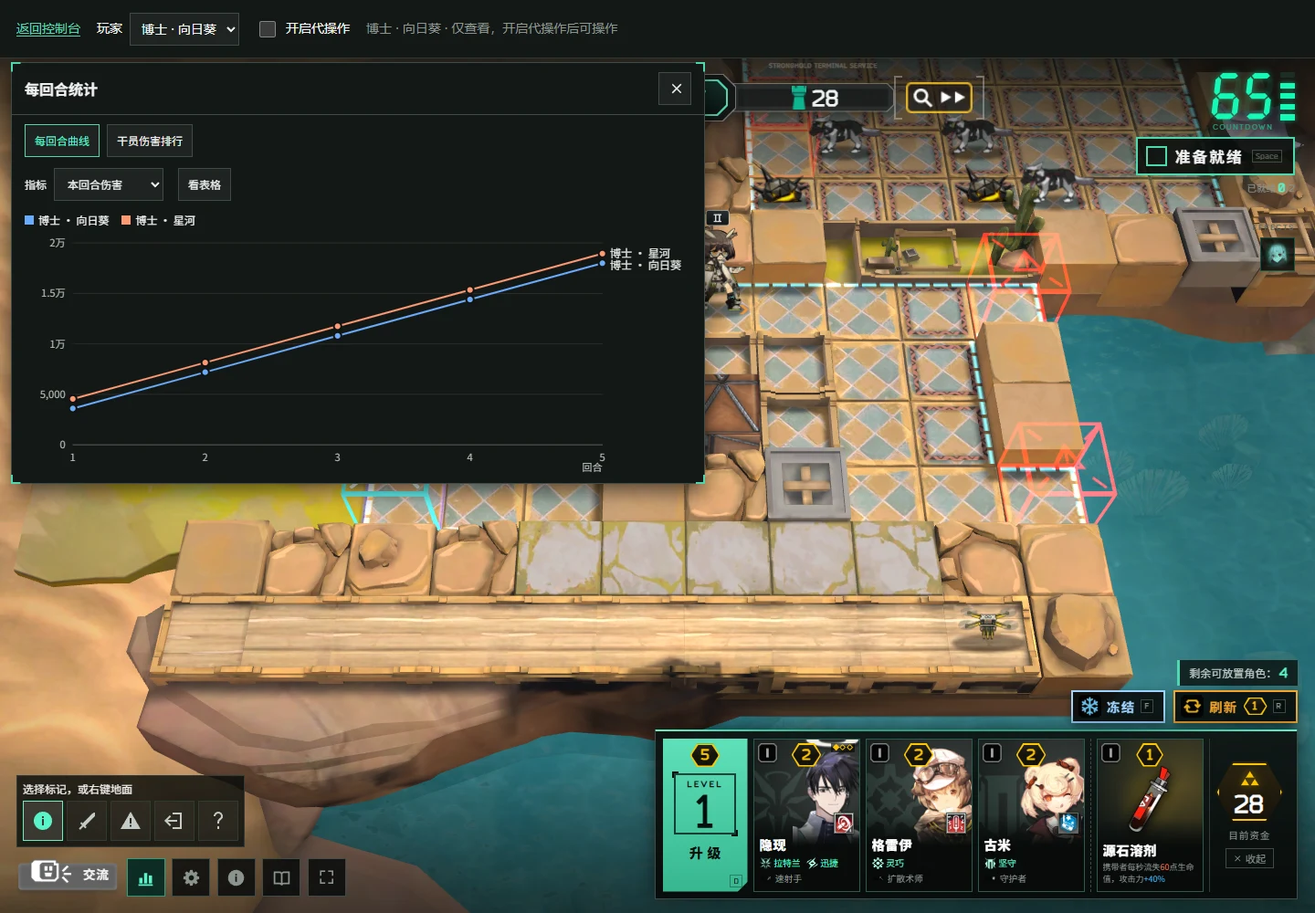
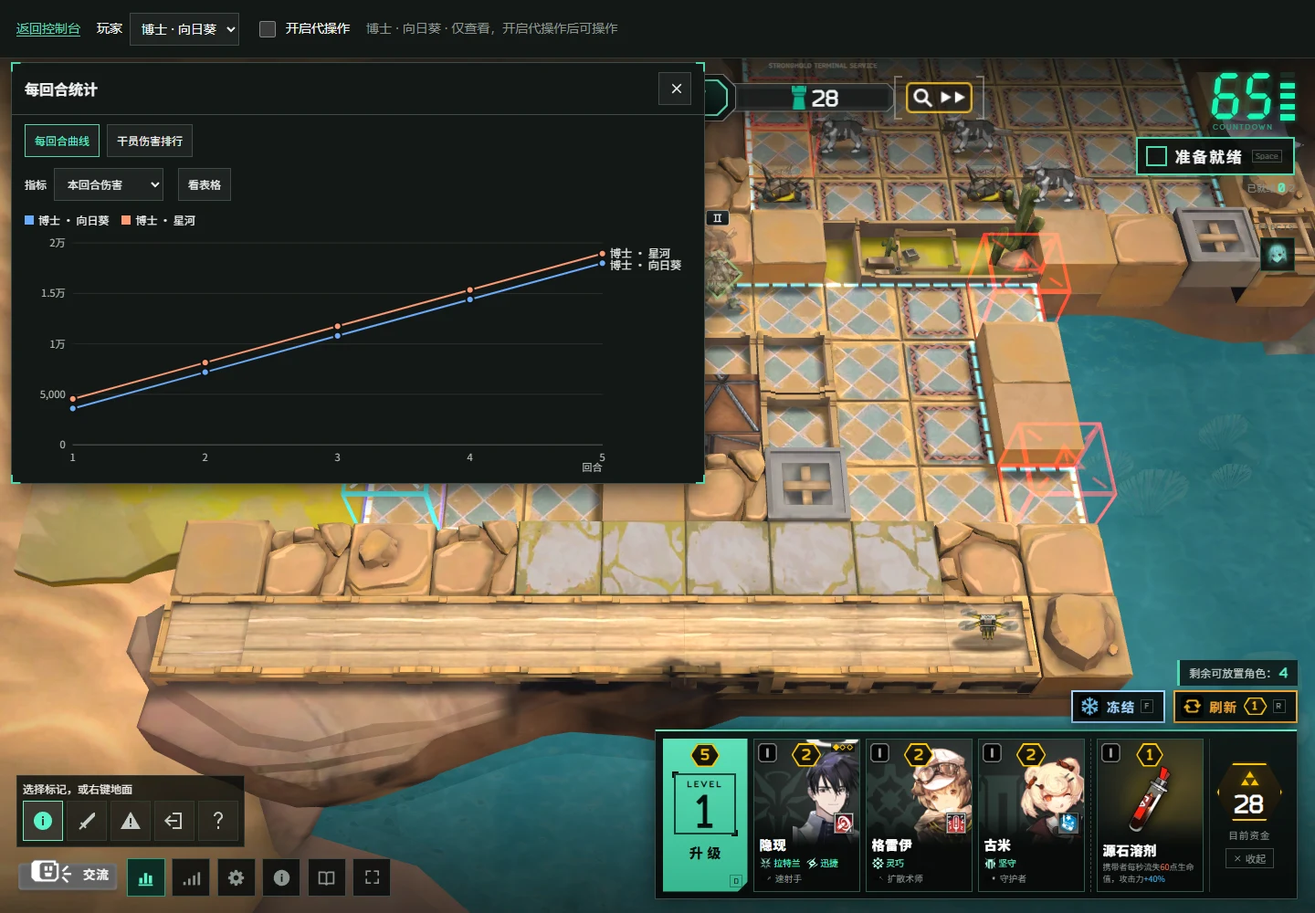
默认开启作战统计并验证帧率设置

diff --git a/test/ui/frame-rate.e2e.test.js b/test/ui/frame-rate.e2e.test.js
@@ -1,0 +1,72 @@
+// Player controls must reach the live Pixi ticker, survive reload, and keep rendering under a cap.
+import { test } from 'node:test';
+import assert from 'node:assert/strict';
+import fs from 'node:fs';
+import os from 'node:os';
+import path from 'node:path';
+import { startAdmin } from '../../server/admin.js';
+import { makeMatch } from '../match/harness.js';
+import { CHROME, hasChrome } from '../e2e/client.mjs';
+
+test('frame-rate controls apply all limits live and persist; combat statistics default on preserves opt-out', {
+  skip: process.env.SP_E2E !== '1' || !hasChrome(), timeout: 90000,
+}, async t => {
+  const dir = fs.mkdtempSync(path.join(os.tmpdir(), 'sp-frame-rate-'));
+  const h = makeMatch({ humans: 1, fake: true }).start().toPrep();
+  let admin, browser;
+  t.after(async () => {
+    await browser?.close(); await admin?.close(); h.m.dispose();
+    fs.rmSync(dir, { recursive: true, force: true });
+  });
+  const room = { code: 'TEST', mode: 'solo', difficulty: 'NORMAL', seats: [], spectators: [], match: h.m };
+  admin = await startAdmin({ lobby: { rooms: new Map([['TEST', room]]), safeData: () => h.m.data, onMatchEnd() {} },
+    port: 0, recovery: false, resultsDir: dir, settingsFile: path.join(dir, 'settings.json'),
+    updateOptions: { fetchImpl: async () => new Response('[]') }, log: { info() {}, error() {} } });
+  browser = await (await import('puppeteer-core')).default.launch({ executablePath: CHROME, headless: true,
+    args: ['--no-sandbox', '--no-first-run', '--disable-background-timer-throttling', '--disable-renderer-backgrounding'] });
+  const page = await browser.newPage(), errors = [];
+  page.on('pageerror', e => errors.push(e.message));
+  await page.setViewport({ width: 1440, height: 900 });
+  await page.goto(admin.url, { waitUntil: 'domcontentloaded' });
+  await page.goto(admin.url + '/live?room=TEST&playerId=p_0&board=2d', { waitUntil: 'domcontentloaded' });
+  const ready = () => page.waitForFunction(() => globalThis.__SP_VIEW__?.kind === 'engine'
+    && !!globalThis.__SP_VIEW__.raw.debug?.app?.ticker, { timeout: 30000 });
+  await ready();
+  const metricsButton = 'button[aria-controls="combat-metrics-panel"]';
+  await page.waitForSelector(metricsButton);
+  const open = async () => { await page.locator('[data-testid="settings-btn"]').click(); await page.waitForSelector('[data-testid="fps-limit"]'); };
+  await open();
+  const metrics = '[role="switch"][aria-label="作战统计"]';
+  assert.equal(await page.$eval(metrics, e => e.getAttribute('aria-checked')), 'true');
+  const radios = '[data-testid="fps-limit"] [role="radio"]';
+  assert.deepEqual(await page.$$eval(radios, es => es.map(e => e.textContent)), ['不限', '30', '60', '120']);
+  const rates = [];
+  for (const [fps, nth] of [[30, 2], [60, 3], [120, 4], [0, 1]]) {
+    await page.locator(`${radios}:nth-child(${nth})`).click();
+    await page.waitForFunction(limit => globalThis.__SP_VIEW__.raw.debug.app.ticker.maxFPS === limit, {}, fps);
+    assert.equal(await page.$eval(`${radios}[aria-checked="true"]`, e => e.textContent), fps ? String(fps) : '不限');
+    assert.equal(await page.evaluate(() => JSON.parse(localStorage.getItem('sp.pref.settings')).fpsLimit), fps);
+    const measured = await page.evaluate(async () => {
+      const ticker = globalThis.__SP_VIEW__.raw.debug.app.ticker;
+      let count = 0; const tick = () => count++;
+      const start = performance.now(); ticker.add(tick);
+      await new Promise(resolve => setTimeout(resolve, 1200));
+      ticker.remove(tick);
+      return count * 1000 / (performance.now() - start);
+    });
+    assert.ok(measured > 5 && (!fps || measured <= fps * 1.2 + 2), `${fps} cap: ${measured.toFixed(1)} FPS`);
+    rates.push(`${fps || 'unlimited'}=${measured.toFixed(1)}`);
+  }
+  await page.locator(`${radios}:nth-child(2)`).click();
+  await page.locator(metrics).click();
+  await page.keyboard.press('Escape');
+  await page.waitForFunction(selector => !document.querySelector(selector), {}, metricsButton);
+  await page.reload({ waitUntil: 'domcontentloaded' }); await ready(); await open();
+  assert.equal(await page.$eval(`${radios}[aria-checked="true"]`, e => e.textContent), '30');
+  assert.equal(await page.evaluate(() => globalThis.__SP_VIEW__.raw.debug.app.ticker.maxFPS), 30);
+  assert.equal(await page.$eval(metrics, e => e.getAttribute('aria-checked')), 'false');
+  await page.locator(metrics).click(); await page.keyboard.press('Escape');
+  await page.waitForSelector(metricsButton);
+  assert.deepEqual(errors, []);
+  t.diagnostic('Observed renderer FPS: ' + rates.join(', '));
+});

diff --git a/test/ui/gameLogic.test.js b/test/ui/gameLogic.test.js
@@ -722,7 +722,7 @@ describe('keyboard & settings', () => {
   test('sanitizeSettings', () => {
     assert.deepEqual(sanitizeSettings(null), { ...DEFAULT_SETTINGS });
     assert.deepEqual(sanitizeSettings({ bgm: 3, sfx: -1, voice: 2, muted: 'yes', damageNumbers: false, quality: 'ultra' }),
-      { bgm: 1, sfx: 0, voice: 1, voiceLang: 'cn', voiceNative: false, voiceOverrides: {}, muted: false, damageNumbers: false, officialDamageNumbers: false, ammoCount: false, combatMetrics: false, mysticEnergy: false, quality: 'high', officialFx: 'auto', textSize: 'sm', fpsLimit: 0, preload: false, preloadOptional: false, preloadVoiceLang: 'all', keys: { ...DEFAULT_SETTINGS.keys } },
+      { bgm: 1, sfx: 0, voice: 1, voiceLang: 'cn', voiceNative: false, voiceOverrides: {}, muted: false, damageNumbers: false, officialDamageNumbers: false, ammoCount: false, combatMetrics: true, mysticEnergy: false, quality: 'high', officialFx: 'auto', textSize: 'sm', fpsLimit: 0, preload: false, preloadOptional: false, preloadVoiceLang: 'all', keys: { ...DEFAULT_SETTINGS.keys } },
       'a saved profile without `keys` (before 0.2.0) gets the default key map (test/ui/feedback5-hotkeys.test.js)');
     assert.equal(sanitizeSettings({ bgm: 0.5 }).voice, DEFAULT_SETTINGS.voice, 'a saved profile without `voice` gets the default');
     // 语音语言: 中文 by default. en / kr are dubs (0.3.0); anything else, including the per-operator 'native', stays 中文.
@@ -730,15 +730,16 @@ describe('keyboard & settings', () => {
     assert.equal(DEFAULT_SETTINGS.voiceNative, false);
     assert.equal(sanitizeSettings({ bgm: 0.5 }).voiceLang, 'cn');
     assert.equal(sanitizeSettings({ bgm: 0.5 }).voiceNative, false, 'a profile saved before the switch stays off');
-    assert.equal(DEFAULT_SETTINGS.combatMetrics, false);
-    assert.equal(sanitizeSettings({ bgm: 0.5 }).combatMetrics, false, 'a profile saved before 作战统计 stays off');
+    assert.equal(DEFAULT_SETTINGS.combatMetrics, true);
+    assert.equal(sanitizeSettings({ bgm: 0.5 }).combatMetrics, true, 'a profile without 作战统计 receives the enabled default');
     assert.equal(sanitizeSettings({ combatMetrics: true }).combatMetrics, true);
+    assert.equal(sanitizeSettings({ combatMetrics: false }).combatMetrics, false, 'a saved disabled preference is preserved');
     // 官方特效 (0.3.0): 'auto' by default (完整 on a desktop, 精简 on a touch device); unknown values fall back to it
     assert.equal(DEFAULT_SETTINGS.officialFx, 'auto');
     assert.equal(sanitizeSettings({ bgm: 0.5 }).officialFx, 'auto', 'a profile saved before 官方特效 gets the default');
     for (const v of ['off', 'lite', 'full', 'auto']) assert.equal(sanitizeSettings({ officialFx: v }).officialFx, v);
     assert.equal(sanitizeSettings({ officialFx: 'ultra' }).officialFx, 'auto');
-    assert.equal(sanitizeSettings({ combatMetrics: 'yes' }).combatMetrics, false, 'a non-boolean stays off');
+    assert.equal(sanitizeSettings({ combatMetrics: 'yes' }).combatMetrics, true, 'a non-boolean falls back to the enabled default');
     assert.equal(sanitizeSettings({ voiceLang: 'jp' }).voiceLang, 'jp');
     assert.equal(sanitizeSettings({ voiceLang: 'en' }).voiceLang, 'en');
     assert.equal(sanitizeSettings({ voiceLang: 'kr' }).voiceLang, 'kr');

diff --git a/public/js/ui/gameLogic/settings.js b/public/js/ui/gameLogic/settings.js
@@ -30,13 +30,13 @@ export const TEXT_SIZES = Object.freeze(['sm', 'md', 'lg', 'xl']);
  *  voiceNative: the 本土语言 switch (default off). textSize: TEXT_SIZES (css/theme.css `--t`, applied by ui/settings.js
  *  applyTextSize). ammoCount: 设置「弹药数量」 — the rounds left / the magazine under an ammo skill's bar (render/units.js;
  *  PR #552), off by default: the official HUD has no such number (the maintainer's decision of 2026-10-13).
- *  combatMetrics: 设置「作战统计」 (PR #618), off by default: the official HUD has no such panel.
+ *  combatMetrics: 设置「作战统计」 (PR #618), on by default in this extension (owner request, 2026-10-16).
  *  mysticEnergy: 设置「秘术师能量」 (PR #636) — a 秘术师's stored attack energies as stored/cap under the bars
  *  (render/units.js), off by default: the official HUD shows them as an effect on the operator, not a number (the
  *  maintainer's decision of 2026-10-15).
  *  officialFx: 设置「官方特效」 (0.3.0, render/vfx): 'auto' (完整 on a desktop, 精简 on a touch device — render/vfx/tier.js),
  *  'off', 'lite' (精简), 'full' (完整); only shown when effects were extracted from the local client. */
-export const DEFAULT_SETTINGS = Object.freeze({ bgm: 0.6, sfx: 0.8, voice: 0.8, voiceLang: 'cn', voiceNative: false, voiceOverrides: Object.freeze({}), muted: false, damageNumbers: true, officialDamageNumbers: false, ammoCount: false, combatMetrics: false, mysticEnergy: false, quality: 'high', officialFx: 'auto', textSize: 'sm', fpsLimit: 0, preload: false, preloadOptional: false, preloadVoiceLang: 'all', keys: DEFAULT_HOTKEYS });
+export const DEFAULT_SETTINGS = Object.freeze({ bgm: 0.6, sfx: 0.8, voice: 0.8, voiceLang: 'cn', voiceNative: false, voiceOverrides: Object.freeze({}), muted: false, damageNumbers: true, officialDamageNumbers: false, ammoCount: false, combatMetrics: true, mysticEnergy: false, quality: 'high', officialFx: 'auto', textSize: 'sm', fpsLimit: 0, preload: false, preloadOptional: false, preloadVoiceLang: 'all', keys: DEFAULT_HOTKEYS });
 const QUALITIES = ['high', 'medium', 'low'];
 /** The values of 设置「官方特效」 (render/vfx/tier.js OFFICIAL_FX). */
 export const OFFICIAL_FX_MODES = Object.freeze(['auto', 'off', 'lite', 'full']);

diff --git a/public/js/battle/runner.js b/public/js/battle/runner.js
@@ -199,7 +199,7 @@ export function createBattleRunner(deps) {
     const record = e.combatMetrics();
     if (!(combatHistory.get(e.battleId)?.seconds > record.seconds)) combatHistory.set(e.battleId, record);
   };
-  // Opt-in (设置「作战统计」, default off). A boolean deps.combatMetrics pins a test and ignores setCombatMetrics.
+  // 设置「作战统计」 (extension default on). A boolean deps.combatMetrics pins a test and ignores setCombatMetrics.
   // Otherwise screens/game.js pushes the settings store. A Worker host never attaches: its page battle is wire state.
   let metricsWanted = false;
   const metricsEnabled = () => (typeof deps.combatMetrics === 'boolean' ? deps.combatMetrics : metricsWanted);
@@ -822,7 +822,7 @@ export function createBattleRunner(deps) {
       e.battle = battle;
       e.meter = e.host.meter;
       // The Worker page holds wire state only (time, ids): no `damaged` hook and no `heal`, so trackCombat cannot
-      // run there. An in-page Battle gets the meter only when 作战统计 is on (default off; a test may pin it).
+      // run there. An in-page Battle gets the meter only when 作战统计 is on (a test may pin it).
       if (metricsEnabled() && !e.host.remote) e.combatMetrics = trackCombat(battle);
       e.t0 = clock() - (e.elapsed / e.speed) * 1000;
       if (lastPool) await e.host.syncPool(lastPool.hp, lastPool.acked ? lastPool.acked[e.fieldId] : undefined);

diff --git a/public/js/ui/settings.js b/public/js/ui/settings.js
@@ -1,5 +1,5 @@
 // Player settings (BGM/SFX/voice volume, the voice dub 语音语言, mute, damage numbers, the optional 弹药数量 under an ammo
-// skill's bar — not in the official HUD, off by default, PR #552 —, the optional 作战统计 panel — off by default,
+// skill's bar — not in the official HUD, off by default, PR #552 —, the optional 作战统计 panel — on by default here,
 // PR #618 —, render quality, 文字大小, the
 // shortcut keys): a tiny observable store persisted in localStorage (`sp.pref.settings`), applied to the audio manager
 // and to the document on every change, plus the settings modal — which also holds the language switch (ui/lang.js; kept
@@ -105,7 +105,7 @@ function Slider({ label, micro, value, onInput, icon }) {
 function Toggle({ label, micro, value, onChange }) {
   return html`<div class="set-row">
     <span class="set-row__label">${label}<${MicroLabel}>${micro}<//></span>
-    <button type="button" class=${`set-toggle${value ? ' is-on' : ''}`} role="switch" aria-checked=${value ? 'true' : 'false'}
+    <button type="button" class=${`set-toggle${value ? ' is-on' : ''}`} role="switch" aria-label=${label} aria-checked=${value ? 'true' : 'false'}
       onClick=${() => onChange(!value)}><i></i><span>${value ? tc('toggle', '开启') : tc('toggle', '关闭')}</span></button>
   </div>`;
 }

diff --git a/test/match/runner.test.js b/test/match/runner.test.js
@@ -665,11 +665,11 @@ test('a Worker host never attaches the combat meter, even when the setting is on
   r.runner.dispose();
 });
 
-test('settings expose 作战统计 off by default and the match hides the button unless it is on', () => {
+test('settings expose 作战统计 on by default and the match hides the button when it is off', () => {
   const settings = readFileSync(new URL('../../public/js/ui/settings.js', import.meta.url), 'utf8');
   const game = readFileSync(new URL('../../public/js/screens/game.js', import.meta.url), 'utf8');
   const logic = readFileSync(new URL('../../public/js/ui/gameLogic/settings.js', import.meta.url), 'utf8');
-  assert.match(logic, /combatMetrics: false/);
+  assert.match(logic, /combatMetrics: true/);
   assert.match(settings, /label=\$\{t\('作战统计'\)\} micro="COMBAT STATS" value=\$\{s\.combatMetrics\}/);
   assert.match(game, /setCombatMetrics\(s\?\.combatMetrics === true\)/);
   assert.match(game, /const showMetrics = metricsSetting && !modRoom && !spectator/);

diff --git a/public/js/screens/game.js b/public/js/screens/game.js
@@ -140,7 +140,7 @@ import { MatchEnded, PausedOverlay } from './game/overlays.js';
 import { inspectRange } from './game/range.js';
 import { t, tParts } from '../../../shared/i18n.js';
 
-// 作战统计 is opt-in (settings `combatMetrics`, default off). The runner does not import the settings store;
+// 作战统计 follows settings `combatMetrics` (default on in this extension). The runner does not import the settings store;
 // this screen pushes the switch. Outside a browser battleRunner is null, so this is a no-op.
 if (battleRunner) {
   const applyCombatMetrics = (s) => battleRunner.setCombatMetrics(s?.combatMetrics === true);

diff --git a/docs/PLAYING.md b/docs/PLAYING.md
@@ -192,7 +192,9 @@
 
 **秘术师能量**：「设置」里的「秘术师能量」默认关闭（官方用干员身上的特效表示储存的攻击能量，没有数字）；打开后，秘术师（如深靛）的血条下方显示储存的攻击能量 / 上限（如 2/3，深靛带模组时上限 4），没有储存时显示 0。只显示己方干员；维伊、黑键这类自带能量的干员不显示这一行。
 
-**作战统计**：「设置」里的「作战统计」默认关闭（官方界面没有这个窗口）。打开后，对局左下角出现按钮，可以打开「作战统计」小窗（战斗中随时开关，不影响战斗）：看自己每名干员在本场战斗 / 本局累计里的伤害、治疗和 DPS / HPS，按伤害降序排列，名字下方的颜色条表示物理 / 法术 / 真实 / 元素的构成。同名干员合并、召唤物计入所属干员，只统计你自己的战斗；数字按实际扣血和有效治疗计算（不含元素积累、过量治疗和友方伤害），数据只在本地浏览器累计，刷新页面后清零。这一场已经开始之后才打开开关，本场不补记之前的伤害，从下一场战斗开始统计；关掉开关会立刻停止统计并收起窗口。改变玩法的插件对局在 Worker 里演算，页面拿不到每一次伤害和治疗，按钮不显示；只改外观或界面的插件不受影响。
+**作战统计**：「设置」里的「作战统计」在本扩展分支默认开启，可手动关闭；已保存的关闭偏好保留。开启时，对局左下角出现按钮，可以打开「作战统计」小窗（战斗中随时开关，不影响战斗）：看自己每名干员在本场战斗 / 本局累计里的伤害、治疗和 DPS / HPS，按伤害降序排列，名字下方的颜色条表示物理 / 法术 / 真实 / 元素的构成。同名干员合并、召唤物计入所属干员，只统计你自己的战斗；数字按实际扣血和有效治疗计算（不含元素积累、过量治疗和友方伤害），数据只在本地浏览器累计，刷新页面后清零。这一场已经开始之后才打开开关，本场不补记之前的伤害，从下一场战斗开始统计；关掉开关会立刻停止统计并收起窗口。改变玩法的插件对局在 Worker 里演算，页面拿不到每一次伤害和治疗，按钮不显示；只改外观或界面的插件不受影响。
+
+**帧率上限**：设置中可选「不限 / 30 / 60 / 120」，选择后立即应用并保存在当前浏览器，重新打开页面也会恢复。只限制画面刷新，不改变确定性战斗模拟的时钟；实际帧率受设备性能、屏幕和浏览器限制，可能低于上限。
 
 **官方特效**：服务器提取过官方战斗特效时（服主在自己电脑上用本地提取工具从自己的游戏客户端提取：`extract.py --only fx --fx-set used`，见 docs/ASSETS.md；默认不提取，发布包目前也不包含），「设置」里会出现「官方特效」，有**关 / 精简 / 完整**三档，默认电脑上完整、手机等触屏设备上精简。特效文件由服务器提供，连到这台服务器的玩家（包括远程玩家）看到的都是服主提取的这一份，自己有没有装游戏客户端都一样。打开后，3D 棋盘上的普攻出手、弹道（多连射的每一发）、命中（多段攻击每一段有各自的命中特效）、治疗、异常状态（晕眩、冻结、沉睡等）、阵亡和部署，敌人被阻挡时的近战攻击，干员和敌人的天赋（部署时、常驻、满足条件时的效果，敌人重生的过程），以及干员和召唤物的技能（包括被动技能）都改用官方特效：技能开启时的特效、持续期间的特效、技能结束的特效、技能就绪的特效、技能期间的攻击（技能自己的出手、弹道和多段命中）、技能给攻击目标挂上的效果，以及深靛储存的攻击能量（每储存一个就在她身上亮起一个，下次攻击时随攻击一起射出；不必打开「秘术师能量」）。这些都按客户端里的粒子系统、模型、拖尾和材质数据重新绘制，跟随游戏速度，暂停时一起停下；显示官方技能特效时，本作的技能光柱和光环就不再画。敌人施放技能时（包括有多个技能的敌人）也显示官方特效。提取里没有的、或对战中不知道何时触发的部分——只在游戏内部条件下触发的效果、少数技能里只有游戏本身才知道位置的效果——仍是本作自己画的；2D 棋盘和简化棋盘、没有 WebGL2 的浏览器也仍用本作的特效。精简用一半分辨率的贴图、粒子减半，适合手机；关掉就完全回到本作的特效。特效只改变画面，不影响战斗。
 

diff --git a/docs/design/client.md b/docs/design/client.md
@@ -565,10 +565,10 @@ normalized values from the room, read-only for non-hosts and during a match. Van
 
 Authoring checks (DESIGN §32.9.1): numeric fields display the shared official bounds and positive step floor; invalid saves are refused. DSL validation network failures are explicit, and saving revalidates the current spec before writing. Unkeyed studio state reads omit script source. Trial replay remains a data-only renderer feed; sandbox simulation runs in the same SES executor as a formal match. Forge and catalogue entry points remain available beside the authoring templates.
 
-### Combat metrics (作战统计) — ported from the xinhai-ai fork, opt-in
+### Combat metrics (作战统计) — ported from the xinhai-ai fork
 
-设置 →「作战统计」 (`combatMetrics`, PR #618 by @robll-v1) defaults off, the same kind of decision as 弹药数量: the
-official HUD has no such panel. Off, the corner button is not rendered and `trackCombat` is not called (no `damaged`
+设置 →「作战统计」 (`combatMetrics`, PR #618 by @robll-v1) defaults on in this extension (owner request, 2026-10-16);
+an explicitly saved false preference is preserved. Off, the corner button is not rendered and `trackCombat` is not called (no `damaged`
 hook, `battle.heal` is not wrapped). On, the corner's 作战统计 button (`gm__metrics`, `ui/combatMetrics.js`) opens a
 modeless panel over the running battle: the fight keeps playing behind it, ✕ / Esc closes it, and the next frame's
 prep keeps it usable.
@@ -594,4 +594,8 @@ enters b.progress / b.result, and a tracked battle's result and rendered events 
 (test/match/combat-metrics.test.js, test/match/runner.test.js). Ported from [xinhai-ai/Stronghold-Protocol](https://github.com/xinhai-ai/Stronghold-Protocol)
 (其公开部署分支，作者 @临夏俨然) with thanks.
 
-本库兼容补充（v0.3.0）：上游素材导入与扩展预载共用 classic `/sw.js`、各自保留缓存。停止预载不注销共享 worker；资源哈希、同源隔离与音频 Range 校验继续生效。作战统计默认关闭，快捷键随上游扩为含购买的七项。
+本库兼容补充（v0.3.0）：上游素材导入与扩展预载共用 classic `/sw.js`、各自保留缓存。停止预载不注销共享 worker；资源哈希、同源隔离与音频 Range 校验继续生效。作战统计默认开启（保留已保存的关闭偏好），快捷键随上游扩为含购买的七项。
+
+帧率上限（本库回归核对，2026-10-16）：不限 / 30 / 60 / 120 通过玩家设置即时应用于 Pixi ticker，
+影响同一 ticker 驱动的单位、特效与棋盘绘制；持久化并在重载后重新应用，不改变战斗 runner 的独立时钟。
+浏览器回归同时检查选中状态、实际 ticker 上限与回调频率，实际 FPS 可因设备性能低于上限。

diff --git a/docs/RELEASE-CANDIDATE.md b/docs/RELEASE-CANDIDATE.md
@@ -6,7 +6,7 @@
 
 本版将源码更新到上游 0.3.0，保留本库主机控制台、回档、回放、联动干员与皮肤，并完善局内统计和房间交流。
 
-- **局内每回合统计**：交流图标后的统计按钮中切换回合曲线和每回合干员伤害排行；玩家与观战者均可查看，主机默认开启，可统一控制。原有 DPS / HPS 作战统计仍可在玩家设置中独立开启。
+- **局内每回合统计**：交流图标后的统计按钮中切换回合曲线和每回合干员伤害排行；玩家与观战者均可查看，主机默认开启，可统一控制。原有 DPS / HPS 作战统计改为默认开启，可在玩家设置中关闭，保留已保存的关闭偏好。
 - **主机消息与屏蔽词**：聊天管理可向当前房间发送主机消息；设置中添加普通文本屏蔽词，忽略大小写，将命中部分替换为 `***`，对之后的玩家和主机消息生效并跨重启保留。
 - **控制台更易查找**：设置按对局、交流、记录与恢复、维护与扩展、清理排列；房间操作分组，对局记录可搜索、每页 20 条，提供本机插件工作台入口。
 - **组队海报**：常显更换按钮，可搜索 432 名干员、1,356 张立绘，保存本机并同步队友，与战斗皮肤独立。
@@ -41,6 +41,7 @@
 - `tools/ci.mjs --only setup,smoke,lint,imports,typecheck` 全部步骤退出成功。lint 为 0 error、167 条既有 warning；imports 仍列出 `server/sim/nodeData.js` 的三项 Node 专用导入，不表述为零告警。
 - 四语言各 2,316 条界面字符串严格检查通过；299 个 golden 全部一致，本次无场景移动。
 - 浏览器最终四个专项均通过：局内曲线 / 排行、聊天发送与屏蔽词、控制台概览、组队海报。聊天专项首轮遇到轮询替换节点，测试改用可重试的定位点击后通过，未改动业务逻辑。
+- 作战统计默认开启修订后，设置 / runner / 战斗统计 / 文档的 112 项定向测试通过；追加真实浏览器测试验证 30 / 60 / 120 / 不限的实际渲染器上限、选择状态、持久化与刷新恢复，同时验证作战统计默认开启和保留手动关闭。
 - 首轮全量共 8,022 项：7,973 通过、7 失败、42 跳过。包含文档旧断言、新文件未进入 Git 清单和截图生成时序问题；修复后对应文档、版本与打包测试均通过。并发负载下的性能断言单独复测通过（最佳 0.144 ms/tick，阈值 0.5 ms），未降低阈值；未将首轮描述为全绿。
 - 桌面截图已逐张检查，完整 / 轻量包预检通过。本机数字用户名扫描会误匹配官方 FX 数值，构建使用 `SP_PACKAGE_SCAN_USER=0`，仍扫描完整主目录路径并拒绝本机私有文件。
 

diff --git a/docs/LOCAL-CHANGELOG.md b/docs/LOCAL-CHANGELOG.md
@@ -5,13 +5,14 @@
 ## 2026-10-16 — v0.3.0-extended.1：局内统计、交流管理与主机设置（发布候选）
 
 - 基于上游 0.3.0，保留本库主机工具、回档、回放、7 名联动干员与可选皮肤；接入官方 FX、多语言语音及上游插件基础。
-- 局内交流图标后新增全员与观战者可见的「每回合统计」，同一按钮切换回合曲线和每回合干员伤害排行；支持回合、玩家、指标与前十 / 全部筛选。主机默认开启，可统一关闭。原有 DPS / HPS 作战统计保留，仍在玩家设置中独立开启。
+- 局内交流图标后新增全员与观战者可见的「每回合统计」，同一按钮切换回合曲线和每回合干员伤害排行；支持回合、玩家、指标与前十 / 全部筛选。主机默认开启，可统一关闭。原有 DPS / HPS 作战统计改为默认开启，仍可在玩家设置中关闭，保留已保存的关闭偏好。
 - 盟约层数曲线过滤不可叠层盟约，控制台也省略其层数与加层 / 设层输入。右键棋盘干员改为发送当前标点，左键和长按详情保留。
 - 聊天管理恢复房间主机消息；屏蔽词按普通文本、忽略大小写匹配，将命中部分替换为 ***，对之后的玩家与主机消息立即生效，设置跨重启保留。全站公告独立管理。
 - 主机设置按对局、交流、记录与恢复、维护与扩展、数据清理排序；独立保存、分组导航、清理置底。控制台整理房间操作与数据，对局记录支持搜索与每页 20 条分页，提供插件工作台入口。
 - 组队海报支持搜索 432 名干员与 1,356 张立绘，常显更换按钮，记住选择并同步队友，独立于战斗皮肤。修复矮屏创建同盟的密钥输入区域。
 - README 重排运行指引与特色介绍，补充桌面截图、靠前的相关仓库索引以及 Forge-Mods 链接，明确社区插件的宿主兼容边界。
 - 修复生成的素材预载清单和海报目录被误计入玩法指纹的问题，避免仅外观资源变动改变内容身份；玩法文件变动仍影响指纹。
+- 补充帧率设置的真实浏览器回归：不限 / 30 / 60 / 120 可选择、保存、刷新恢复，并立即作用于 Pixi 渲染 ticker；不改变模拟时钟。作战统计新默认值、手动关闭与刷新保留一并验证。
 
 发布状态：这是发布候选，尚未创建公开 Release。上一正式附件仍为 v0.2.6-extended.5。验证与附件清单见 [发布准备](RELEASE-CANDIDATE.md)，下方保留整合过程的历史验证记录。
 

diff --git a/docs/LOCAL-DEV.md b/docs/LOCAL-DEV.md
@@ -19,7 +19,7 @@
 
 上游合并的兼容处理：
 
-- 保留社区 Hub UI、皮肤、7 名联动、聊天标点、公告、盟约预选、帧率、ZIP 资源管理和状态增量；快捷键随上游扩成七项，加入 W 悬停购买；作战统计默认关闭，开启后仍用浏览器只读统计。
+- 保留社区 Hub UI、皮肤、7 名联动、聊天标点、公告、盟约预选、帧率、ZIP 资源管理和状态增量；快捷键随上游扩成七项，加入 W 悬停购买；作战统计按维护者要求默认开启，保留已保存的关闭偏好，仍用浏览器只读统计。
 - 两套素材功能统一注册 classic `/sw.js`：上游导入包使用独立缓存，本库预载保留按哈希校验、音频别名和 Range。关闭预载停止下载，清理只删除本库缓存，统一 worker 继续服务上游导入素材。旧 `/resource-sw.js` 只保留升级兼容，不再注册争用 scope。
 - 回档补入上游 `itemPool.debt`，取消废弃时间线的浏览器 AI 预演。沿用上游同盟自选库存翻倍、整备区扩展和已展示装备欠账规则；强制发放的库存标记仍保留。
 - `server/match/host/extensions.js` 通过既有 IPC 在玩法插件独立进程内调用控制台能力，支持状态、目录、监控墙、代操作、改属性、回档、结果与回放记录；父进程不执行插件代码。皮肤、盟约预选及全局计时 / 回放配置也跨进程同步。
